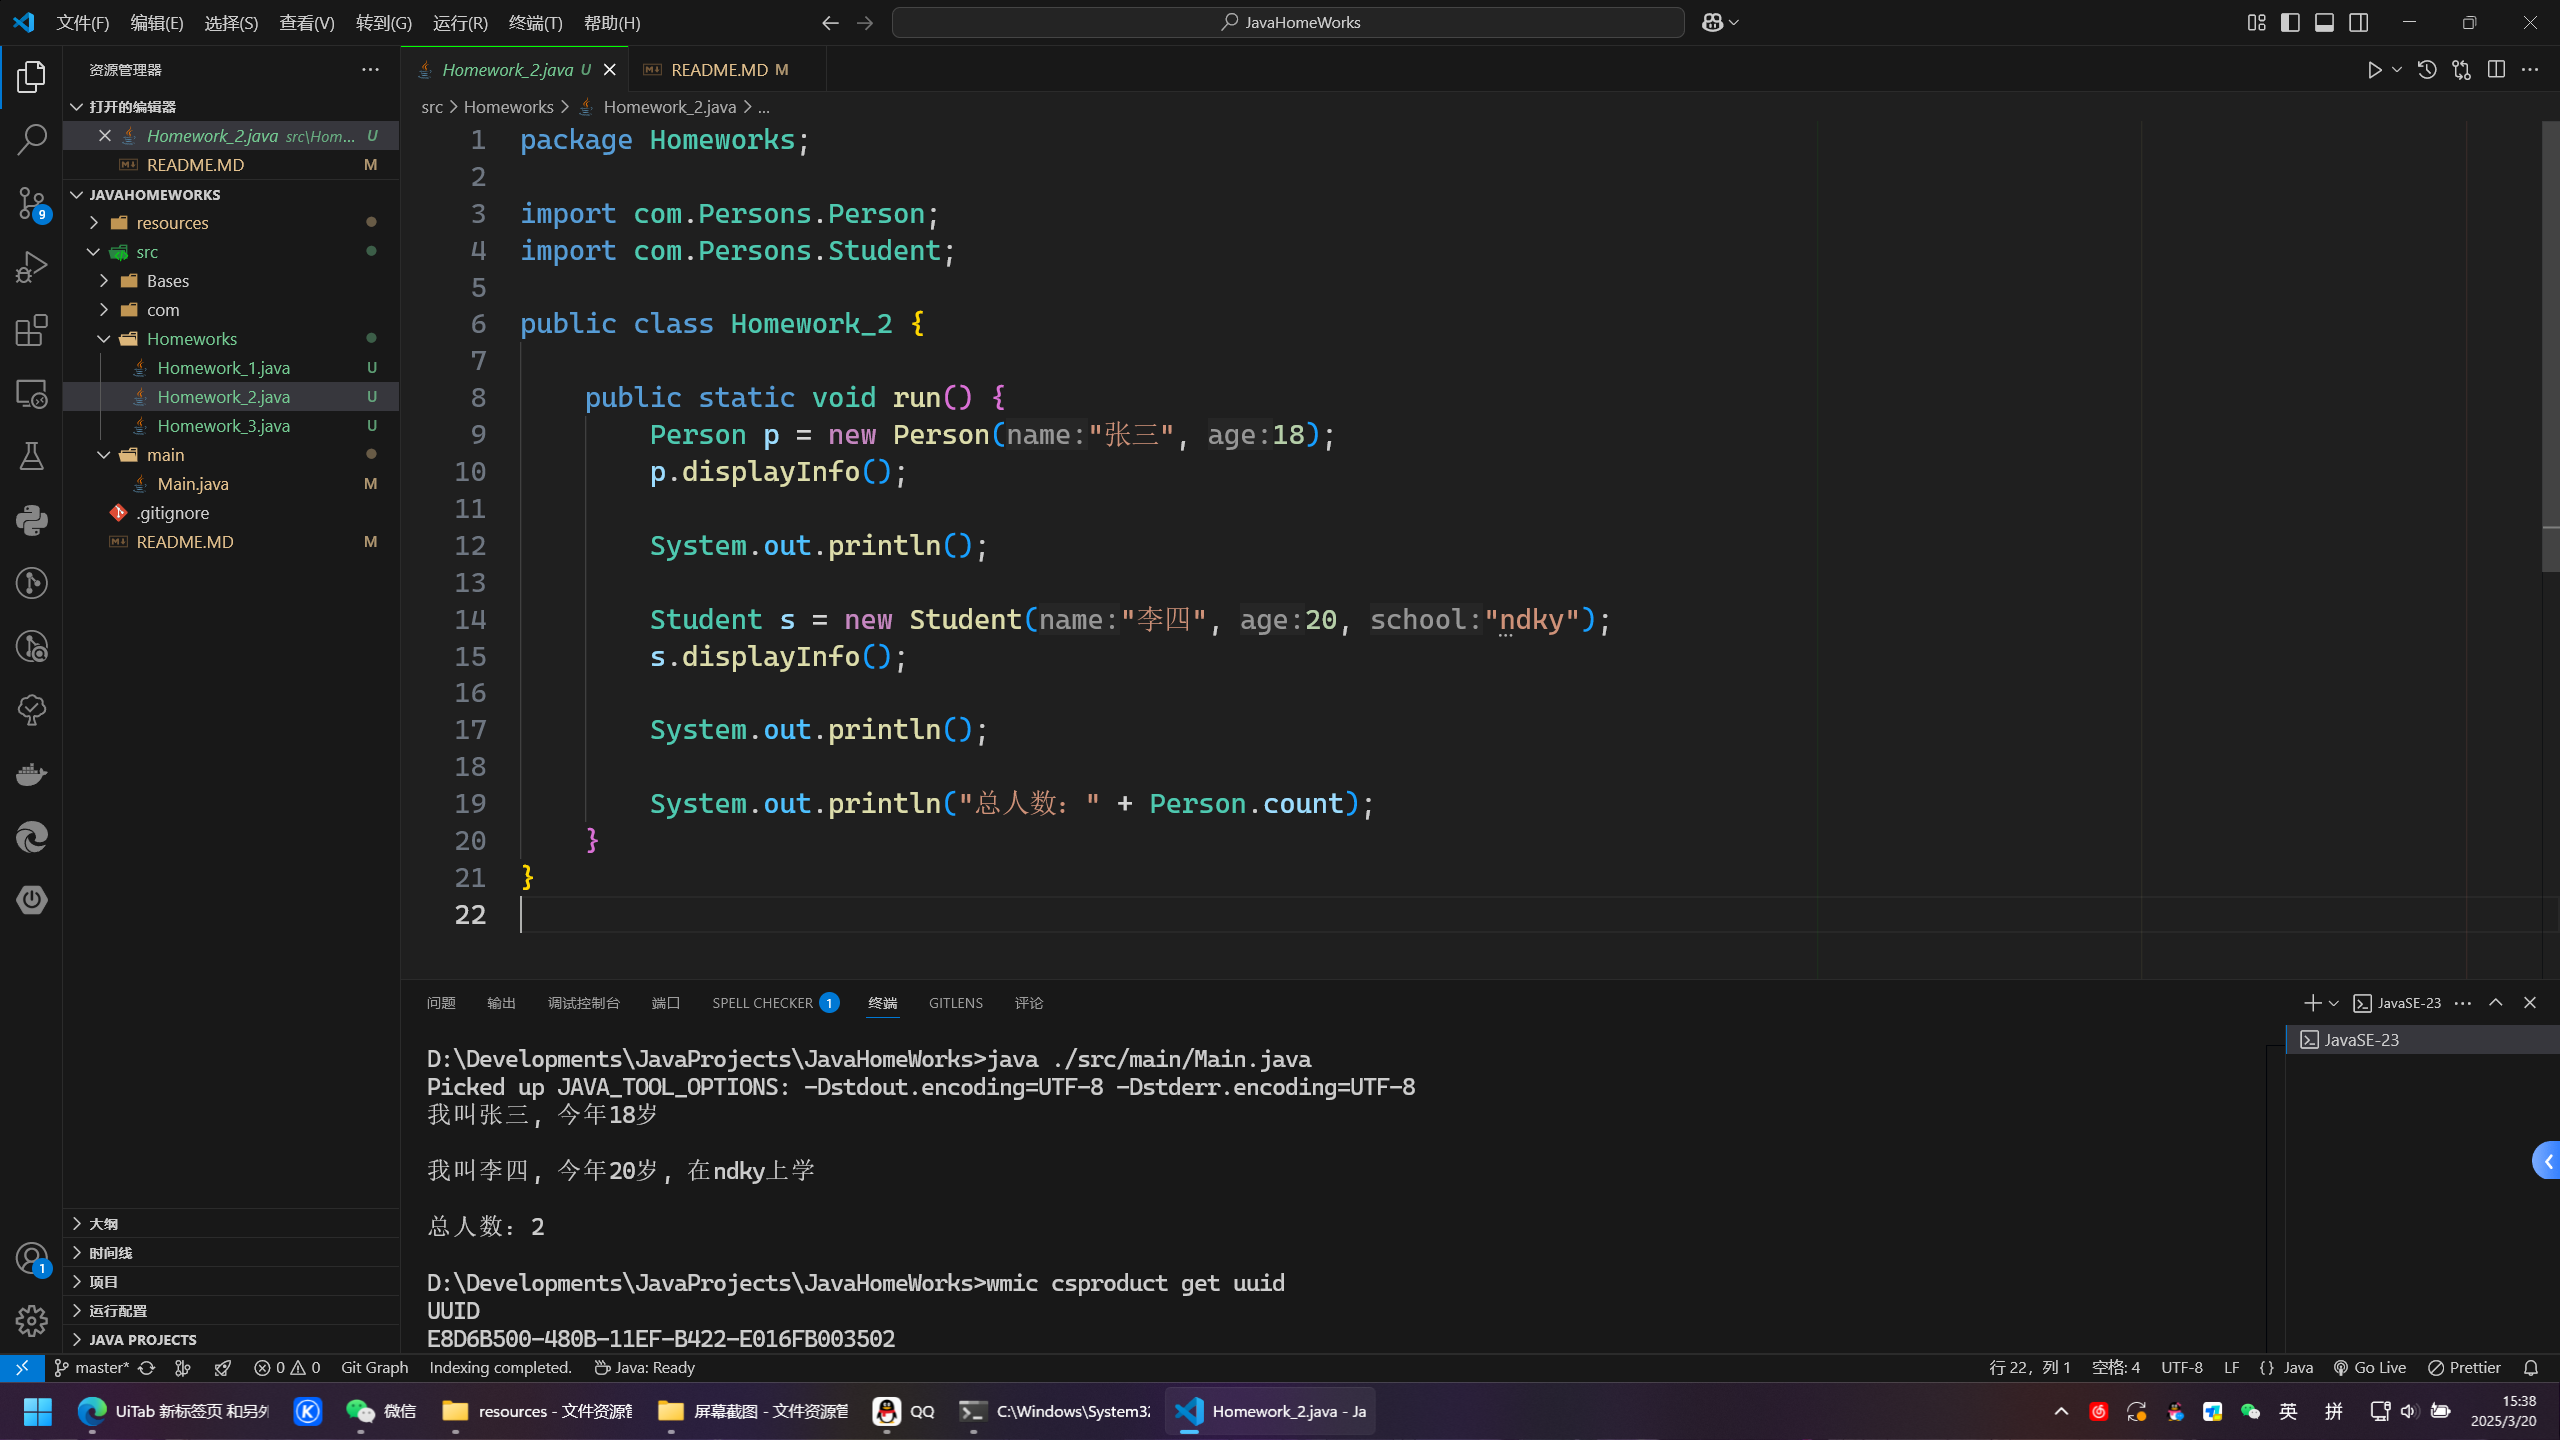
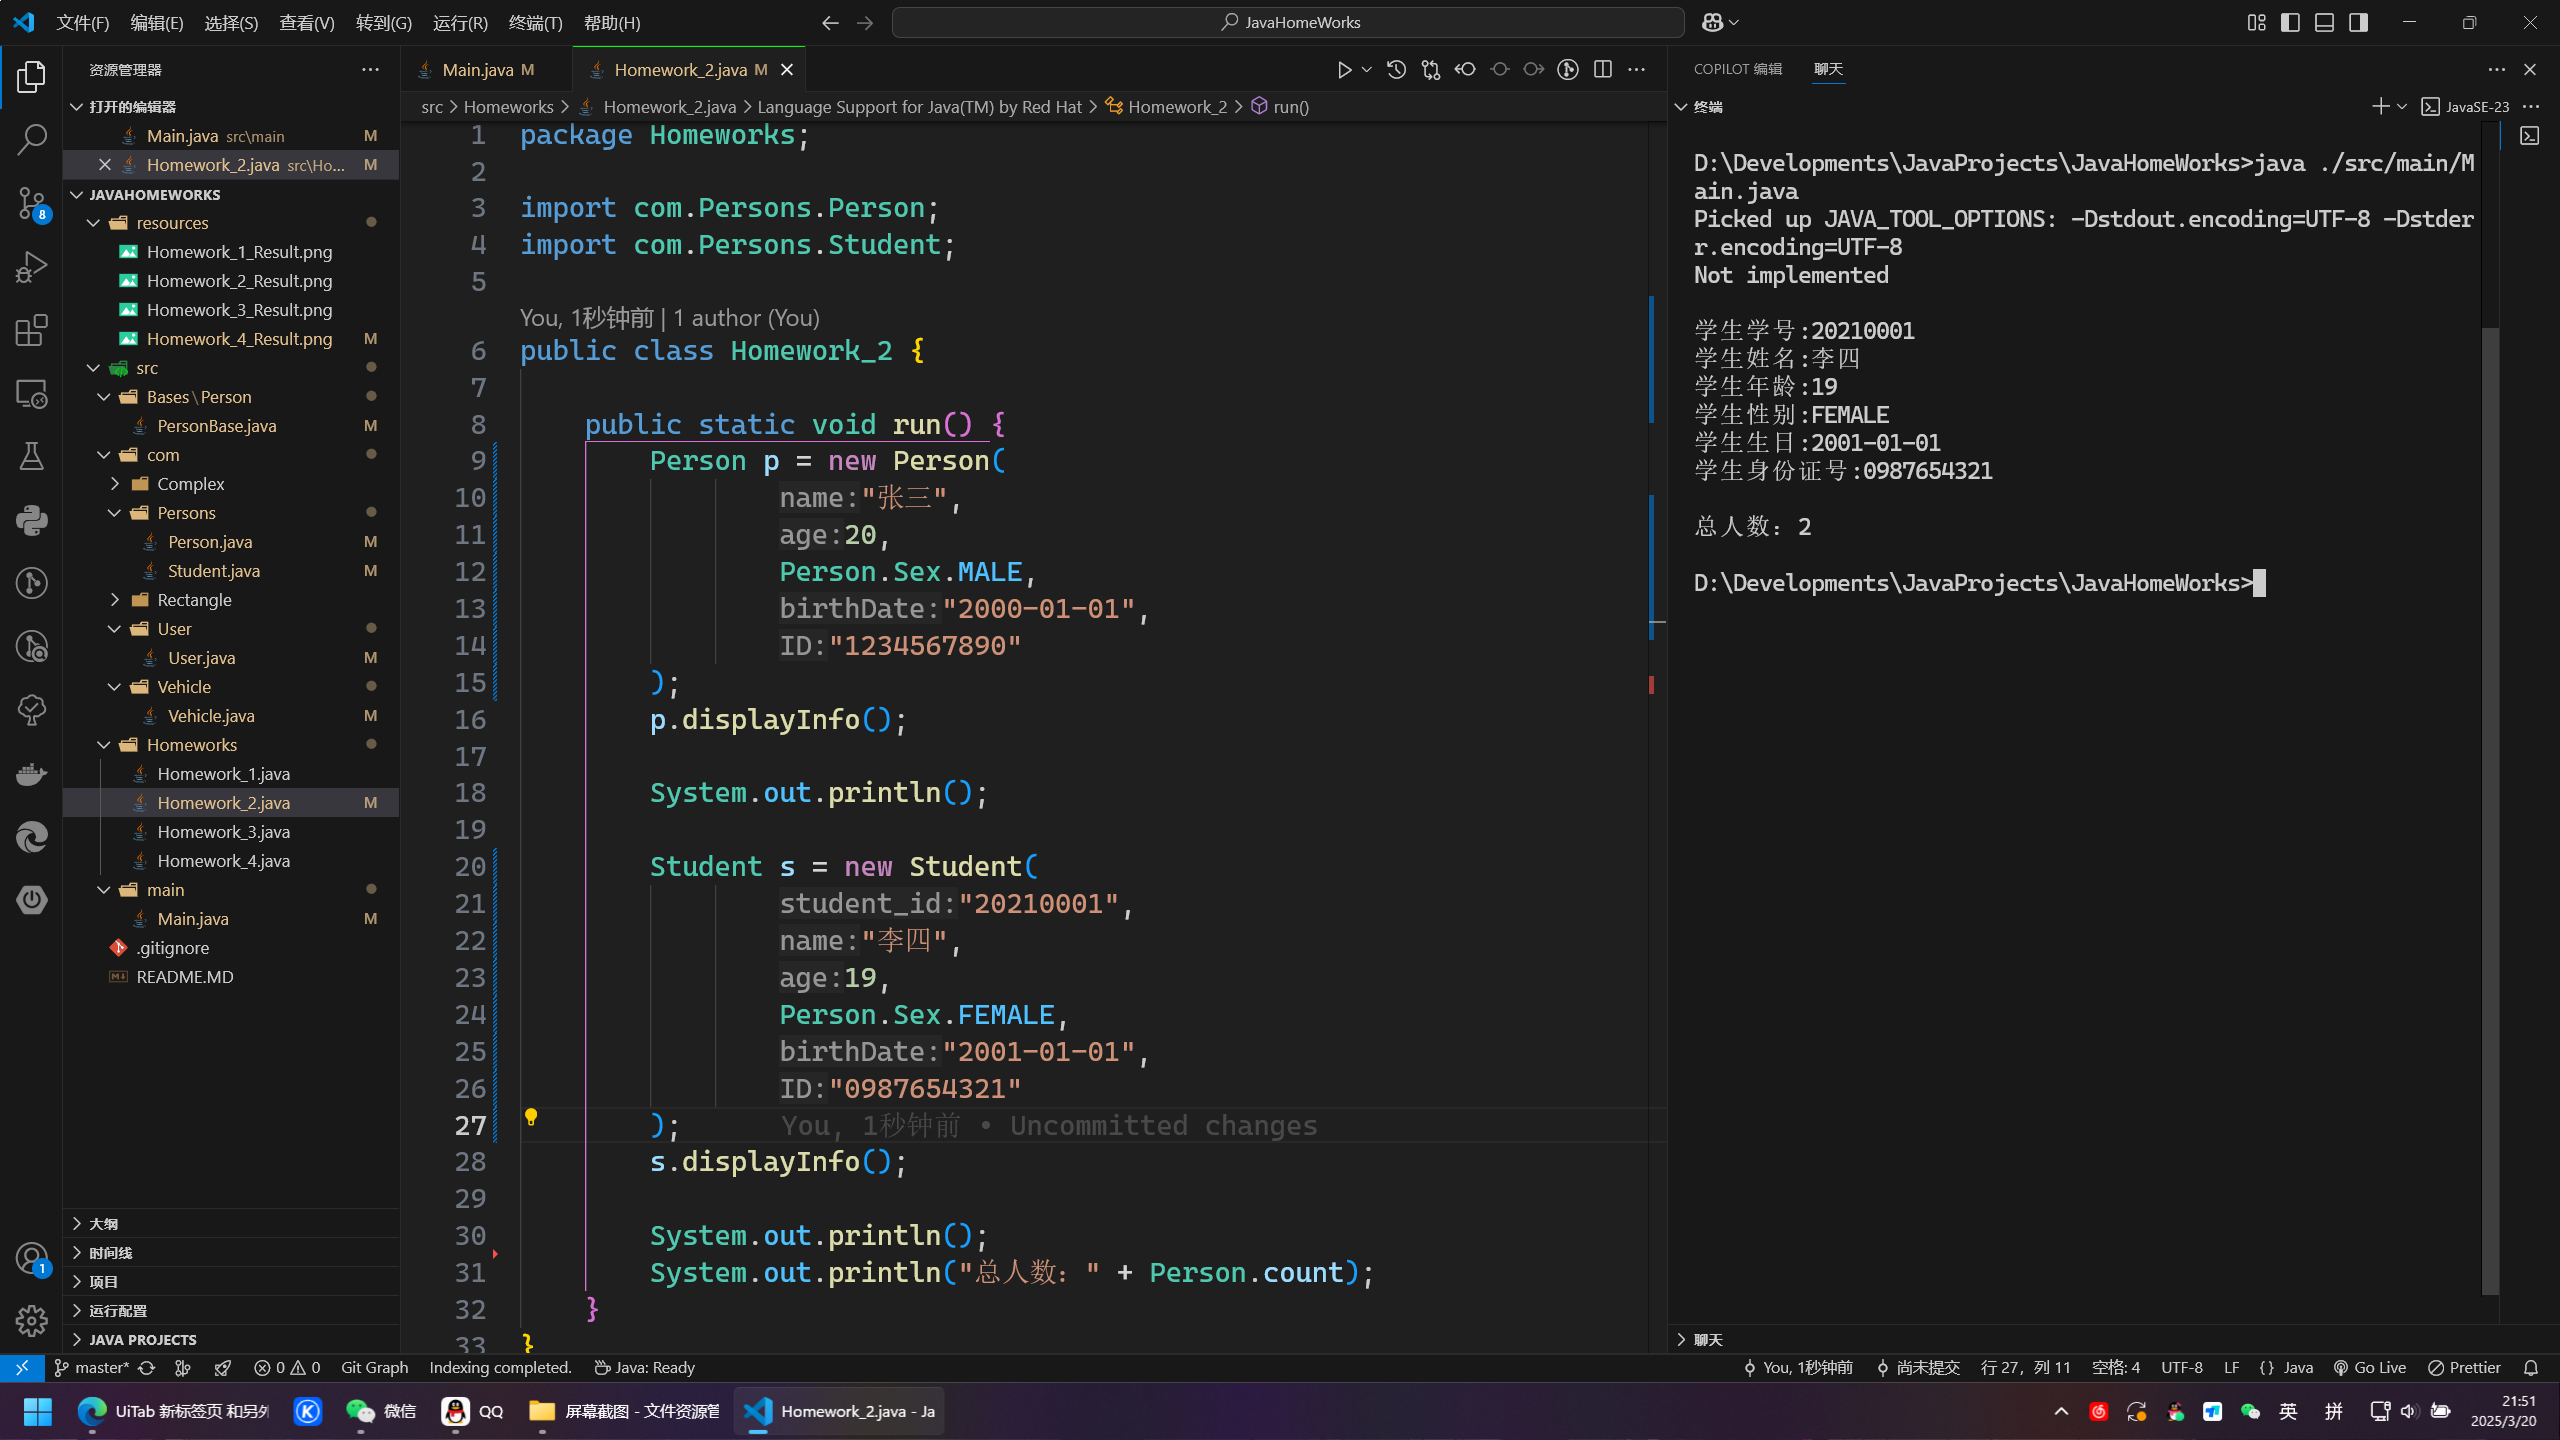
perf & docs: perf:     - perf the Person docs:     - update Homework_4

diff --git a/src/com/Vehicle/Vehicle.java b/src/com/Vehicle/Vehicle.java
@@ -11,11 +11,29 @@ public class Vehicle {
     }
 
     public void speedUp(int s) {
-        speed += s;
+        if (s < 0) {
+            System.err.println("Speed must be positive");
+            return;
+        }
+        int newSpeed = (int) speed + s;
+        if (newSpeed > 200) {
+            System.err.println("Speed can't be more than 200");
+            return;
+        }
+        speed = newSpeed;
     }
 
-    public void speedDown(int d) {
-        speed -= d;
+    public void speedDown(int s) {
+        if (s < 0) {
+            System.err.println("Speed must be positive");
+            return;
+        }
+        int newSpeed = (int) speed - s;
+        if (newSpeed < 0) {
+            System.err.println("Speed can't be negative");
+            return;
+        }
+        speed = newSpeed;
     }
 
     public void setPower(int p) {
@@ -30,8 +48,13 @@ public class Vehicle {
         return speed;
     }
 
+    public void brake() {
+        speed = 0;
+    }
+
     @Override
     public String toString() {
         return "Vehicle[" + "speed=" + speed + ", power=" + power + ']';
     }
+
 }

diff --git a/src/com/Persons/Student.java b/src/com/Persons/Student.java
@@ -2,15 +2,24 @@ package com.Persons;
 
 public class Student extends Person {
 
-    private final String school;
+    private final String student_id;
 
-    public Student(String name, int age, String school) {
-        super(name, age);
-        this.school = school;
+    public Student(String student_id, String name, int age, Sex sex, String birthDate, String ID) {
+        super(name, age, sex, birthDate, ID);
+        this.student_id = student_id;
     }
 
     @Override
     public void displayInfo() {
-        System.out.println("我叫" + name + ", 今年" + age + "岁, 在" + school + "上学");
+        System.out.println("学生学号:" + student_id);
+        System.out.println("学生姓名:" + name);
+        System.out.println("学生年龄:" + age);
+        System.out.println("学生性别:" + this.sex.toString());
+        System.out.println("学生生日:" + birthDate);
+        System.out.println("学生身份证号:" + ID);
+    }
+
+    public void printInfo() {
+        this.displayInfo();
     }
 }

diff --git a/src/com/User/User.java b/src/com/User/User.java
@@ -1,10 +1,12 @@
 package com.User;
 
+import com.Persons.Student;
 import com.Vehicle.Vehicle;
 
 public class User {
 
     public static void main() {
+        // Test Vehicle
         Vehicle car1 = new Vehicle(100, 200);
         Vehicle car2 = new Vehicle(100, 76);
         System.out.println(car1);
@@ -22,5 +24,19 @@ public class User {
         car2.speedDown(20);
         System.out.println("car1目前的速度是:" + car1.getSpeed());
         System.out.println("car2目前的速度是:" + car2.getSpeed());
+        car2.speedDown(200);
+
+        // Test Student
+        Student s = new Student(
+                "20210001",
+                "李四",
+                19,
+                Student.Sex.FEMALE,
+                "2001-01-01",
+                "0987654321"
+        );
+        s.displayInfo();
+        System.out.println("总人数：" + Student.count);
     }
+
 }

diff --git a/src/Homeworks/Homework_2.java b/src/Homeworks/Homework_2.java
@@ -6,16 +6,28 @@ import com.Persons.Student;
 public class Homework_2 {
 
     public static void run() {
-        Person p = new Person("张三", 18);
+        Person p = new Person(
+                "张三",
+                20,
+                Person.Sex.MALE,
+                "2000-01-01",
+                "1234567890"
+        );
         p.displayInfo();
 
         System.out.println();
 
-        Student s = new Student("李四", 20, "ndky");
+        Student s = new Student(
+                "20210001",
+                "李四",
+                19,
+                Person.Sex.FEMALE,
+                "2001-01-01",
+                "0987654321"
+        );
         s.displayInfo();
 
         System.out.println();
-
         System.out.println("总人数：" + Person.count);
     }
 }

diff --git a/src/Bases/Person/PersonBase.java b/src/Bases/Person/PersonBase.java
@@ -2,13 +2,23 @@ package Bases.Person;
 
 public abstract class PersonBase {
 
+    public enum Sex {
+        MALE, FEMALE
+    }
+
     protected final String name;
     protected final int age;
+    protected final Sex sex;
+    protected String birthDate;
+    protected String ID;
     public static int count = 0;
 
-    public PersonBase(String name, int age) {
+    public PersonBase(String name, int age, Sex sex, String birthDate, String ID) {
         this.name = name;
         this.age = age;
+        this.sex = sex;
+        this.birthDate = birthDate;
+        this.ID = ID;
         count++;
     }
 

diff --git a/src/com/Persons/Person.java b/src/com/Persons/Person.java
@@ -4,12 +4,12 @@ import Bases.Person.PersonBase;
 
 public class Person extends PersonBase {
 
-    public Person(String name, int age) {
-        super(name, age);
+    public Person(String name, int age, Sex sex, String birthDate, String ID) {
+        super(name, age, sex, birthDate, ID);
     }
 
     @Override
     public void displayInfo() {
-        System.out.println("我叫" + name + ", 今年" + age + "岁");
+        System.err.println("Not implemented");
     }
 }

diff --git a/README.MD b/README.MD
@@ -62,6 +62,9 @@
 
 #### 有关文件 4
 
+- [src/Bases/Person/PersonBase.java](/src/Bases/Person/PersonBase.java)
+- [src/com/Persons/Person.java](/src/com/Persons/Person.java)
+- [src/com/Persons/Student.java](/src/com/Persons/Student.java)
 - [src/com/User/User.java](/src/com/User/User.java)
 - [src/com/Vehicle/Vehicle.java](/src/com/Vehicle/Vehicle.java)
 - [src/Homeworks/Homework_4.java](/src/Homeworks/Homework_4.java)
